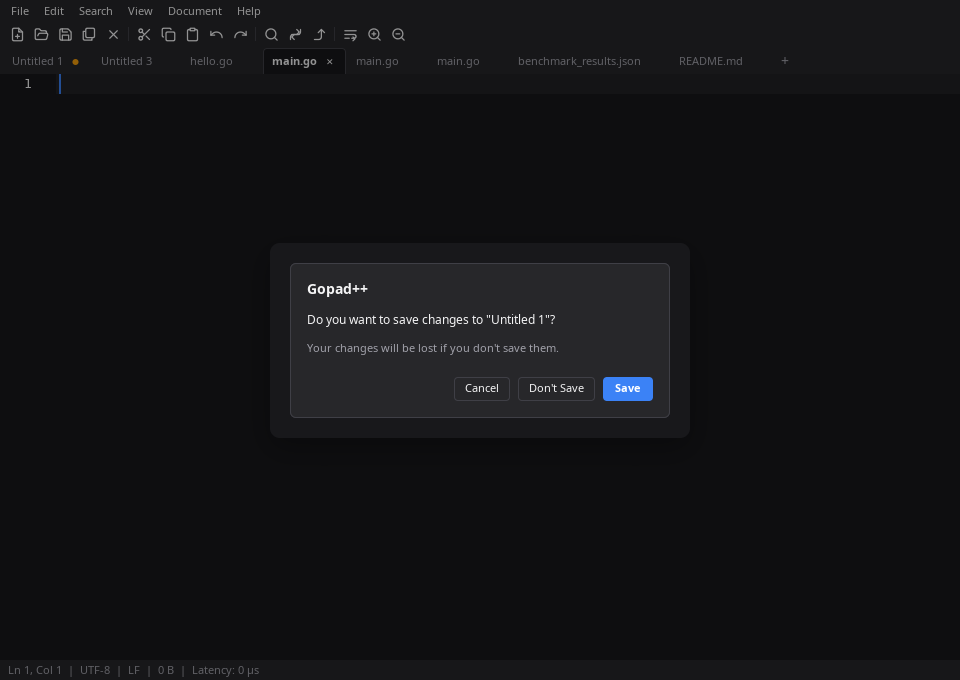
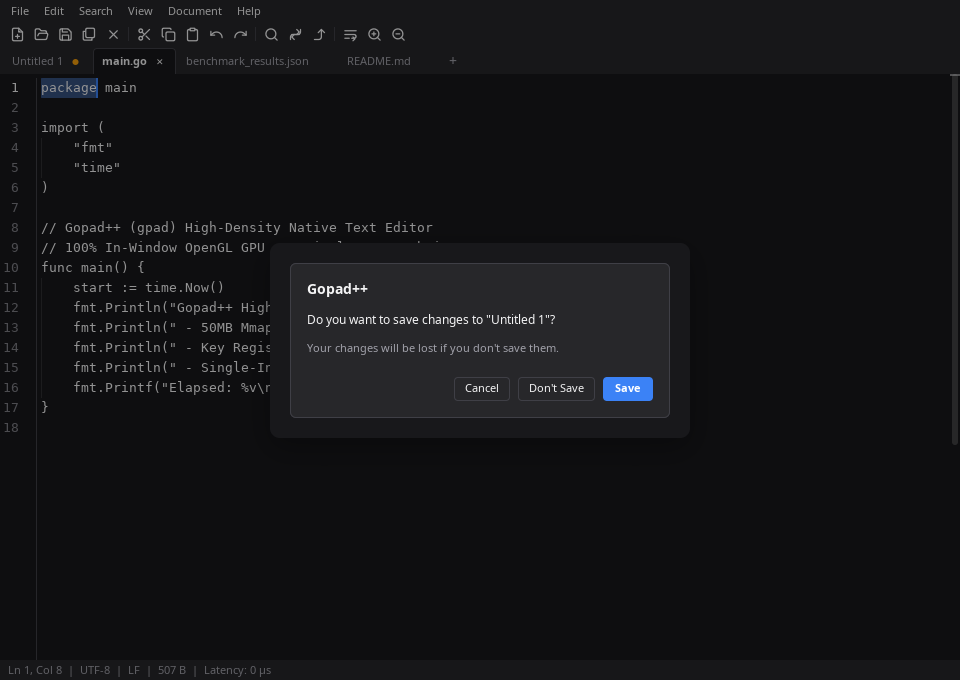
style(editor): compact gutter with vertical divider and top gap for seamless tab transition
- Reduce minDigits from 3 to 2 and optimize gutter padding and folding width
- Add crisp 1px vertical divider between gutter and editor text
- Add 4px top padding gap so line 1 active highlight has seamless breathing room under active tab title
- Update screenshots and demo gif

[Reviewed-by: Agent-4 QA Gatekeeper]

diff --git a/third_party/mygo/ui/editor/paint.go b/third_party/mygo/ui/editor/paint.go
@@ -102,8 +102,9 @@ func (ed *editor) paint(p *ui.Painter, r ui.Rect) {
 	// The lines in view: those the window shows of the element, for an
 	// editor as high as its content.
 	clip := p.Visible()
-	y0 := ed.scrollY + float64(max(0, clip.Y-r.Y))
-	y1 := ed.scrollY + float64(min(r.H, clip.Y+clip.H-r.Y))
+	topPad := ed.o.topPad
+	y0 := ed.scrollY + float64(max(0, clip.Y-(r.Y+topPad)))
+	y1 := ed.scrollY + float64(min(r.H-topPad, clip.Y+clip.H-(r.Y+topPad)))
 	var f frame
 	f.first, f.last = ed.visibleLines(y0, y1)
 	ed.shown = [2]int{f.first, f.last}
@@ -127,7 +128,7 @@ func (ed *editor) paint(p *ui.Painter, r ui.Rect) {
 		f.caretsOn = true
 	}
 	ed.paintBlocks(p, r, &f)
-	text := ui.Rect{X: r.X + ed.gutterW, Y: r.Y, W: r.W - ed.gutterW, H: r.H}
+	text := ui.Rect{X: r.X + ed.gutterW, Y: r.Y + topPad, W: r.W - ed.gutterW, H: r.H - topPad}
 	p.Clip(text, 0, func() {
 		ed.paintLines(p, r, &f)
 	})
@@ -231,7 +232,7 @@ func (ed *editor) paintLines(p *ui.Painter, r ui.Rect, f *frame) {
 	v := &ed.view
 	h := &v.heights
 	if ed.view.text.Len() == 0 && ed.o.placeholder != "" {
-		y := r.Y + float32(-ed.scrollY)
+		y := r.Y + ed.o.topPad + float32(-ed.scrollY)
 		l := v.shaped.get(ed.o.placeholder, v.style)
 		row := rowLayout{pieces: []rowPiece{{to: len(ed.o.placeholder), l: l, ascii: isASCII(ed.o.placeholder), width: l.Width}}, to: len(ed.o.placeholder)}
 		cl := &lineLayout{disp: ed.o.placeholder}
@@ -293,7 +294,7 @@ func (ed *editor) paintBlock(p *ui.Painter, r ui.Rect, b *block, top float64) {
 	if ed.o.decor == nil {
 		return
 	}
-	br := ui.Rect{X: r.X, Y: r.Y + float32(top-ed.scrollY), W: r.W, H: b.height}
+	br := ui.Rect{X: r.X, Y: r.Y + ed.o.topPad + float32(top-ed.scrollY), W: r.W, H: b.height}
 	if br.Y > p.Visible().Y+p.Visible().H || br.Y+br.H < p.Visible().Y {
 		return
 	}
@@ -322,7 +323,7 @@ func (ed *editor) paintLine(p *ui.Painter, r ui.Rect, f *frame, line int, g line
 	v.colorsOf(l, &f.colors)
 	for ri := range l.rows {
 		row := &l.rows[ri]
-		y := r.Y + float32(g.rows-ed.scrollY) + float32(ri)*lh
+		y := r.Y + ed.o.topPad + float32(g.rows-ed.scrollY) + float32(ri)*lh
 		if y > p.Visible().Y+p.Visible().H || y+lh < p.Visible().Y {
 			continue
 		}
@@ -616,13 +617,14 @@ func (ed *editor) paintGutter(p *ui.Painter, r ui.Rect, f *frame) {
 	ct := ed.theme
 	h := &v.heights
 	lh := v.lineHeight
-	gutter := ui.Rect{X: r.X, Y: r.Y, W: ed.gutterW, H: r.H}
+	topPad := ed.o.topPad
+	gutter := ui.Rect{X: r.X, Y: r.Y + topPad, W: ed.gutterW, H: r.H - topPad}
 	numbersOn := ed.numbersOn()
 	cur := v.text.LineOf(ed.primary().head)
 	p.Clip(gutter, 0, func() {
-		numRight := r.X + ed.gutterW - 4 - v.charWidth*0.5
+		numRight := r.X + ed.gutterW - 4 - v.charWidth*0.4
 		if ed.o.folding && ed.o.decor == nil {
-			numRight -= lh * 0.8
+			numRight -= lh * 0.5
 		}
 		if ed.gitDiff != nil {
 			numRight -= 6
@@ -633,7 +635,7 @@ func (ed *editor) paintGutter(p *ui.Painter, r ui.Rect, f *frame) {
 			if g.hidden {
 				continue
 			}
-			y := r.Y + float32(g.rows-ed.scrollY)
+			y := r.Y + topPad + float32(g.rows-ed.scrollY)
 			rowsH := float32(g.below - g.rows)
 			var style lineLook
 			if ed.o.decor != nil {
@@ -674,7 +676,7 @@ func (ed *editor) paintGutter(p *ui.Painter, r ui.Rect, f *frame) {
 			// Change bars.
 			barX := r.X + ed.gutterW - 4 - 3
 			if ed.o.folding && ed.o.decor == nil {
-				barX -= lh * 0.8
+				barX -= lh * 0.5
 			}
 			if ed.gitDiff != nil {
 				switch ed.gitDiff.status(line) {
@@ -697,7 +699,7 @@ func (ed *editor) paintGutter(p *ui.Painter, r ui.Rect, f *frame) {
 				folded := ed.isFolded(line)
 				hovered := ed.pointerIn && ed.pointer.X < ed.gutterW
 				if folded || hovered && ed.foldable(line) {
-					cx, cy := r.X+ed.gutterW-4-lh*0.4, y+lh/2
+					cx, cy := r.X+ed.gutterW-4-lh*0.25, y+lh/2
 					d := lh * 0.16
 					var path ui.Path
 					if folded {
@@ -714,6 +716,8 @@ func (ed *editor) paintGutter(p *ui.Painter, r ui.Rect, f *frame) {
 			}
 		}
 	})
+	// Vertical divider between gutter and editor text
+	p.Fill(ui.Rect{X: r.X + ed.gutterW - 1, Y: r.Y + topPad, W: 1, H: r.H - topPad}, p.Theme().Border, 0)
 }
 
 // paintBar draws a diff's change bar: solid for additions, striped for

diff --git a/third_party/mygo/ui/editor/input.go b/third_party/mygo/ui/editor/input.go
@@ -138,7 +138,7 @@ func commandEdits(c Command) bool {
 
 // toContent maps a point of the element to the content.
 func (ed *editor) toContent(x, y float32) (float32, float64) {
-	return x - ed.textX + ed.scrollX, float64(y) + ed.scrollY
+	return x - ed.textX + ed.scrollX, float64(y-ed.o.topPad) + ed.scrollY
 }
 
 // region is what part of the editor a point of it is over.
@@ -542,7 +542,7 @@ func (ed *editor) gutterPress(ev ui.InputEvent) bool {
 }
 
 // foldX is where the fold markers are in the gutter.
-func (ed *editor) foldX() float32 { return ed.gutterW - ed.view.lineHeight*0.8 - 4 }
+func (ed *editor) foldX() float32 { return ed.gutterW - ed.view.lineHeight*0.5 - 4 }
 
 // blockAt returns the block at height y of the content, and its box in
 // the element.
@@ -554,14 +554,14 @@ func (ed *editor) blockAt(y float64) (*block, ui.Rect, bool) {
 	top := g.top
 	for i := range above {
 		if y >= top && y < top+float64(above[i].height) {
-			return &above[i], ui.Rect{X: 0, Y: float32(top - ed.scrollY), W: ed.r.W, H: above[i].height}, true
+			return &above[i], ui.Rect{X: 0, Y: float32(top-ed.scrollY) + ed.o.topPad, W: ed.r.W, H: above[i].height}, true
 		}
 		top += float64(above[i].height)
 	}
 	top = g.below
 	for i := range below {
 		if y >= top && y < top+float64(below[i].height) {
-			return &below[i], ui.Rect{X: 0, Y: float32(top - ed.scrollY), W: ed.r.W, H: below[i].height}, true
+			return &below[i], ui.Rect{X: 0, Y: float32(top-ed.scrollY) + ed.o.topPad, W: ed.r.W, H: below[i].height}, true
 		}
 		top += float64(below[i].height)
 	}
@@ -774,7 +774,7 @@ func (ed *editor) BoundsForRange(r ui.TextInputRange) (ui.Rect, ui.TextInputRang
 		return ui.Rect{}, r, false
 	}
 	x := ed.textX + cr.X - ed.scrollX
-	y := float32(float64(cr.Y) - ed.scrollY)
+	y := float32(float64(cr.Y)-ed.scrollY) + ed.o.topPad
 	if y+cr.H < 0 || y > ed.viewH {
 		return ui.Rect{}, r, false
 	}

diff --git a/third_party/mygo/ui/editor/state.go b/third_party/mygo/ui/editor/state.go
@@ -58,6 +58,9 @@ type State struct {
 	// FitContent makes the editor as high as its lines, to show in a
 	// scroll view or a list, rather than scrolling them itself.
 	FitContent bool
+	// TopPadding adds a gap in DIPs between the top edge of the editor and
+	// the first line. 4 by default; set to -1 for 0.
+	TopPadding float32
 	// Placeholder shows while the buffer is empty.
 	Placeholder string
 	// Label names the editor for assistive technology.
@@ -197,9 +200,9 @@ func (st *State) options() options {
 		autoClose: !st.NoAutoClose, folding: !st.NoFolding, activeLine: !st.NoActiveLine, cursorShape: st.CursorShape, fitContent: st.FitContent,
 		placeholder: st.Placeholder, label: st.Label, theme: st.Theme, bindings: st.Bindings, gutterMarks: st.GutterMarks,
 		backgrounds: st.LineBackgrounds, diffBase: st.DiffBase, onCompletion: st.OnCompletion, onHover: st.OnHover, onDefinition: st.OnDefinition,
-		onGutterClick: st.OnGutterClick, contextMenu: st.ContextMenu, onInput: st.OnInput, noInputMethod: st.NoInputMethod, minDigits: 3,
+		onGutterClick: st.OnGutterClick, contextMenu: st.ContextMenu, onInput: st.OnInput, noInputMethod: st.NoInputMethod, minDigits: 2,
 		renderFindBar: st.RenderFindBar, renderGoToLine: st.RenderGoToLine,
-		renderCompletions: st.RenderCompletions, renderHover: st.RenderHover,
+		renderCompletions: st.RenderCompletions, renderHover: st.RenderHover, topPad: st.TopPadding,
 	}
 }
 

diff --git a/third_party/mygo/ui/editor/editor.go b/third_party/mygo/ui/editor/editor.go
@@ -70,6 +70,8 @@ type options struct {
 	sharedScroll *sharedScroll
 	// signs leaves room for a diff's + and - before the text.
 	signs bool
+	// topPad is the gap in DIPs between top of editor and line 1.
+	topPad float32
 }
 
 // sharedScroll is the vertical scroll several editors share.
@@ -610,10 +612,10 @@ func (ed *editor) gutterWidth() float32 {
 	w := float32(0)
 	if ed.numbersOn() {
 		digits := max(ed.o.minDigits, len(strconv.Itoa(v.text.LineCount())))
-		w += float32(digits)*v.charWidth + v.charWidth*1.5
+		w += float32(digits)*v.charWidth + v.charWidth*0.8
 	}
 	if ed.o.folding && ed.o.decor == nil {
-		w += v.lineHeight * 0.8
+		w += v.lineHeight * 0.5
 	}
 	if ed.o.diffBase != nil {
 		w += 6

diff --git a/third_party/mygo/ui/editor/build.go b/third_party/mygo/ui/editor/build.go
@@ -124,7 +124,7 @@ func (ed *editor) build(c *ui.Context, buf *Buffer, o options) ui.Element {
 			if !ok {
 				return ui.Element{}, false
 			}
-			return ui.Box(c).Key(key).Absolute().Left(ed.textX+cr.X-ed.scrollX).Top(float32(float64(cr.Y)-ed.scrollY)).Size(1, cr.H).PassThrough(), true
+			return ui.Box(c).Key(key).Absolute().Left(ed.textX+cr.X-ed.scrollX).Top(float32(float64(cr.Y)-ed.scrollY) + ed.o.topPad).Size(1, cr.H).PassThrough(), true
 		}
 		var caretAnchor, hoverAnchor ui.Element
 		var hasCaret, hasHover bool

diff --git a/internal/buffer/buffer.go b/internal/buffer/buffer.go
@@ -35,7 +35,8 @@ func NewDocument(id, title, content string, path string) *Document {
 	}
 
 	st := &editor.State{
-		Buffer: buf,
+		Buffer:     buf,
+		TopPadding: 4,
 	}
 
 	doc := &Document{
@@ -57,6 +58,9 @@ func NewDocument(id, title, content string, path string) *Document {
 func (d *Document) SetBufferReady(buf *editor.Buffer, st *editor.State) {
 	d.mu.Lock()
 	d.Buffer = buf
+	if st != nil && st.TopPadding == 0 {
+		st.TopPadding = 4
+	}
 	d.State = st
 	d.Loading = false
 	if buf != nil {

diff --git a/internal/ui/ui.go b/internal/ui/ui.go
@@ -636,6 +636,9 @@ func (u *UI) renderEditor(c *ui.Context) {
 	}
 
 	// Main code editor occupying entire central viewport
+	if doc.State != nil && doc.State.TopPadding == 0 {
+		doc.State.TopPadding = 4
+	}
 	editor.View(c, doc.State).Fill()
 }
 
